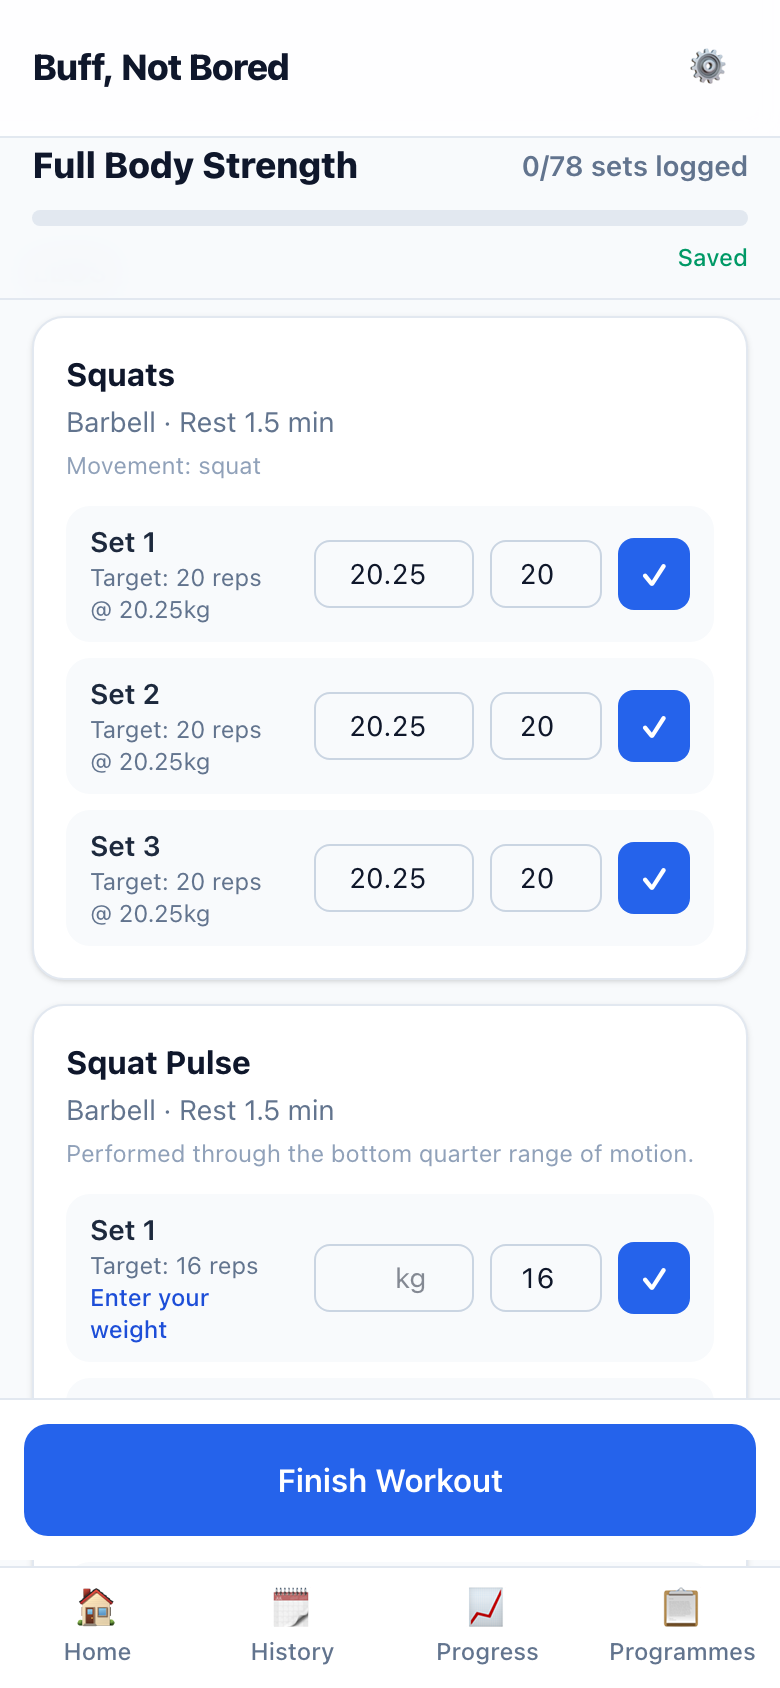
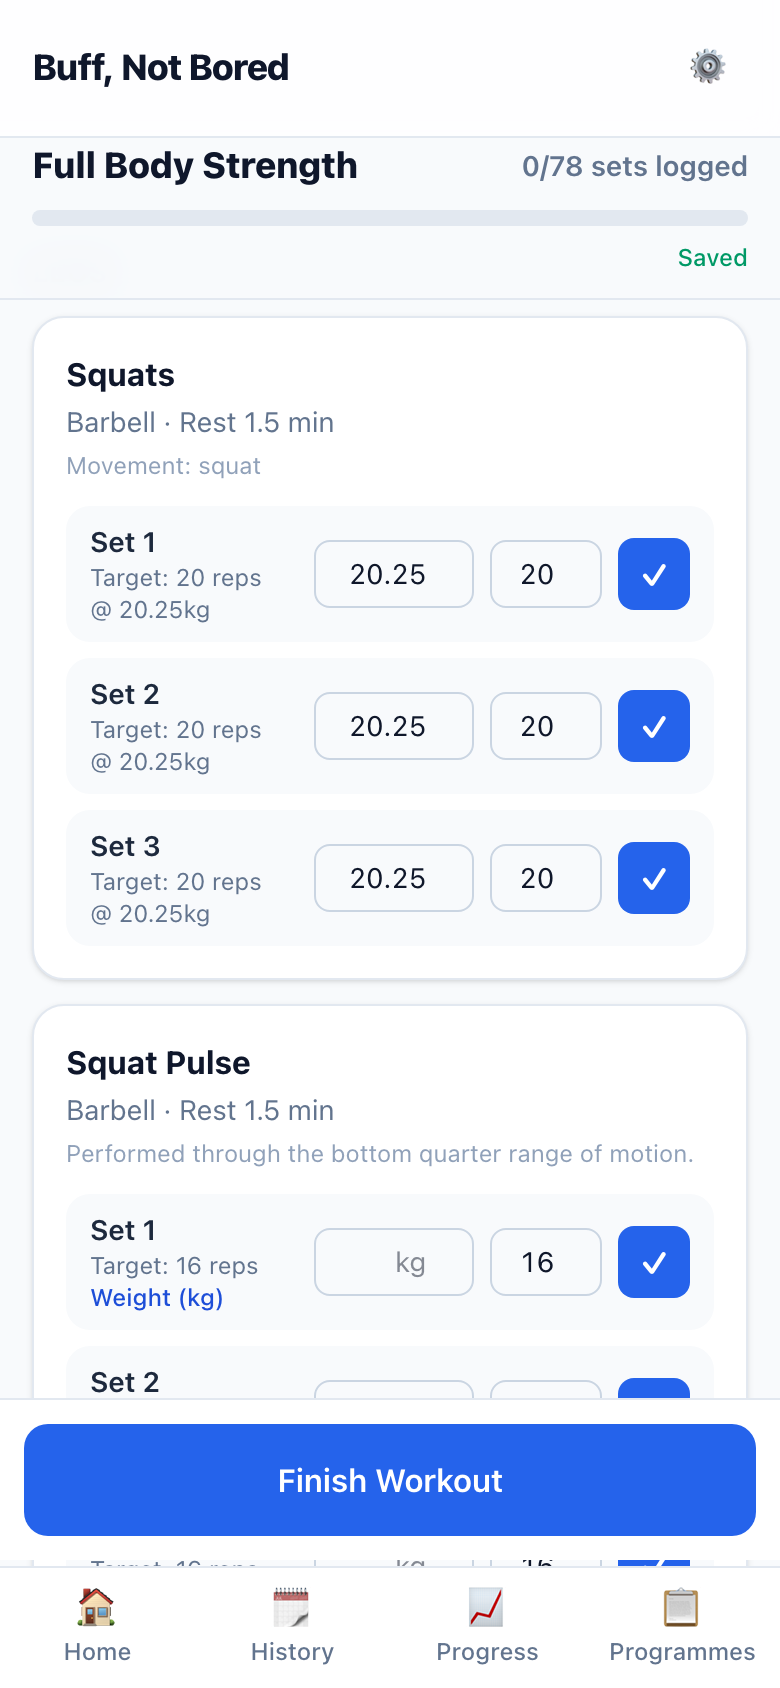
feat: label first-use weight boxes "Weight (kg)"; plan kg/lb setting

diff --git a/apps/web/components/strength/StrengthSetRow.tsx b/apps/web/components/strength/StrengthSetRow.tsx
@@ -49,7 +49,7 @@ export function StrengthSetRow({ exerciseId, set, loaded }: { exerciseId: string
           Target: {formatTargetVolume({ prescribedReps: set.targetReps, repsUnit: set.repsUnit, prescribedDuration: set.targetDuration })}
           {hasWeight && !needsWeight ? ` @ ${set.targetWeight}kg` : ""}
         </p>
-        {needsWeight && !logged && <p className="text-xs font-medium text-accent-700">Enter your weight</p>}
+        {needsWeight && !logged && <p className="text-xs font-medium text-accent-700">Weight (kg)</p>}
       </div>
 
       {logged ? (

diff --git a/apps/web/components/ExerciseCard.tsx b/apps/web/components/ExerciseCard.tsx
@@ -102,7 +102,7 @@ export function ExerciseCard({ planned }: { planned: PlannedExercise }) {
             )}
             {needsWeight && (
               <label className="flex flex-col items-center gap-1">
-                <span className="text-xs font-semibold uppercase tracking-wide text-slate-500">Your weight</span>
+                <span className="text-xs font-semibold uppercase tracking-wide text-slate-500">Weight (kg)</span>
                 <input
                   type="number"
                   inputMode="decimal"

diff --git a/apps/web/test/strength-flow.test.tsx b/apps/web/test/strength-flow.test.tsx
@@ -92,7 +92,7 @@ describe("Classic Strength — your weights (S-002)", () => {
     await user.click(screen.getByRole("button", { name: /start workout/i }));
 
     const squats = within(squatsCard());
-    expect(squats.getAllByText("Enter your weight")).toHaveLength(3);
+    expect(squats.getAllByText("Weight (kg)")).toHaveLength(3);
     expect(squats.getByRole("spinbutton", { name: "Set 1 weight" })).toHaveValue(null);
   });
 

diff --git a/reviews/user-weights/REVIEW.md b/reviews/user-weights/REVIEW.md
@@ -14,7 +14,7 @@
 | | |
 |---|---|
 | ![](01-strength-overview.png) | **01 · Overview.** Unchanged. |
-| ![](02-strength-squats-no-weight-yet.png) | **02 · No weight yet.** Each set says "Enter your weight", with an empty kg box. |
+| ![](02-strength-squats-no-weight-yet.png) | **02 · No weight yet.** Each set says "Weight (kg)", with an empty box. |
 | ![](03-strength-typing-first-weight.png) | **03 · Typing the first weight**, 20.25 kg. |
 | ![](04-strength-first-set-logged-rest-filled-in.png) | **04 · First set logged.** Sets 2 and 3 now target 20.25 kg. |
 | ![](05-strength-bodyweight-exercise.png) | **05 · Bodyweight exercise** (Plank): no weight box. A loaded exercise below (Russian Twists) still asks. |
@@ -36,7 +36,7 @@
 
 | | |
 |---|---|
-| ![](09-circuit-your-weight-and-weight-needed.png) | **09 · Your weight and weight needed.** Squats uses your 20.25 kg with the +/− buttons; Squat Pulse says "Weight needed" and shows a typed "Your weight" box. |
+| ![](09-circuit-your-weight-and-weight-needed.png) | **09 · Your weight and weight needed.** Squats uses your 20.25 kg with the +/− buttons; Squat Pulse says "Weight needed" and shows a typed "Weight (kg)" box. |
 | ![](10-circuit-typing-first-weight.png) | **10 · Typing a first weight** on Deadlifts, 35.25 kg. |
 | ![](11-circuit-first-weight-logged.png) | **11 · Logged.** Deadlifts now shows your 35.25 kg straight away. |
 | ![](12-circuit-bodyweight-exercise.png) | **12 · Bodyweight exercise** on Circuit. |
@@ -49,7 +49,7 @@
 Your local database is empty right now, so every weight will start blank, as you asked (D-003). The screenshots came from a separate review database, so your data wasn't touched.
 
 ## Placeholder UI (design-first)
-The empty weight box and its "Enter your weight" / "Your weight" labels are a **working skeleton only**. Entering a weight is part of set logging, which is design-first, so this stops here for your design.
+The empty weight box and its "Weight (kg)" label (your wording) are a **working skeleton only**. Entering a weight is part of set logging, which is design-first, so this stops here for your design.
 
 ## Deviations and things to know
 - **Fixed along the way, because 0.25 kg weights exposed them:**
@@ -62,4 +62,4 @@ The empty weight box and its "Enter your weight" / "Your weight" labels are a **
 - **Assisted exercises:** the logic is ready, but there's nothing to show until the pull-up arrives in Phase 1.
 
 ## Questions for you
-1. Wording: "Enter your weight" (Strength) and "Your weight" (Circuit) are placeholders. Any preference before the design pass?
+None. The kg/lb choice will be a setting in its own slice (see BACKLOG.md).

diff --git a/BACKLOG.md b/BACKLOG.md
@@ -53,6 +53,15 @@ _Breakdown approved 2026-10-18. Decisions D-002–D-006._
 - Notes: the trigger uses reps only until set feedback is logged in Phase 1 (D-006). Circuit keeps percentage progression. The old engines round weights to 0.5 kg; anything that stays must use the 0.25 kg step (D-007). Choosing which of the increment options become the nudge chips is a design question.
 - Done when: no strength screen suggests a weight automatically; the engine reports readiness and increment options.
 
+### S-005 · kg or lb, chosen in Settings — status: todo
+- Epic: R-00 (requested by Maeve, 2026-10-18; not in the spec)
+- Spec: none yet; extends D-007
+- Screens: Settings (unit choice); every weight label and box shows the chosen unit
+- Design-first: no
+- Depends on: S-002
+- Notes: one unit everywhere, not per exercise. Store kg; convert for display and entry, so nothing saved changes. lb moves in 0.5 lb steps, with jumps such as +0.5 / +1 / +2.5 / +5 lb (confirmed by Maeve).
+- Done when: switching to lb shows and accepts every weight in lb, and switching back shows the same kg values as before.
+
 ## Discovered (untriaged)
 - Weight history has no pagination yet (from PR #6).
 - Same-day ordering between a workout entry and a manual weight entry is a simple sort (from PR #6).
